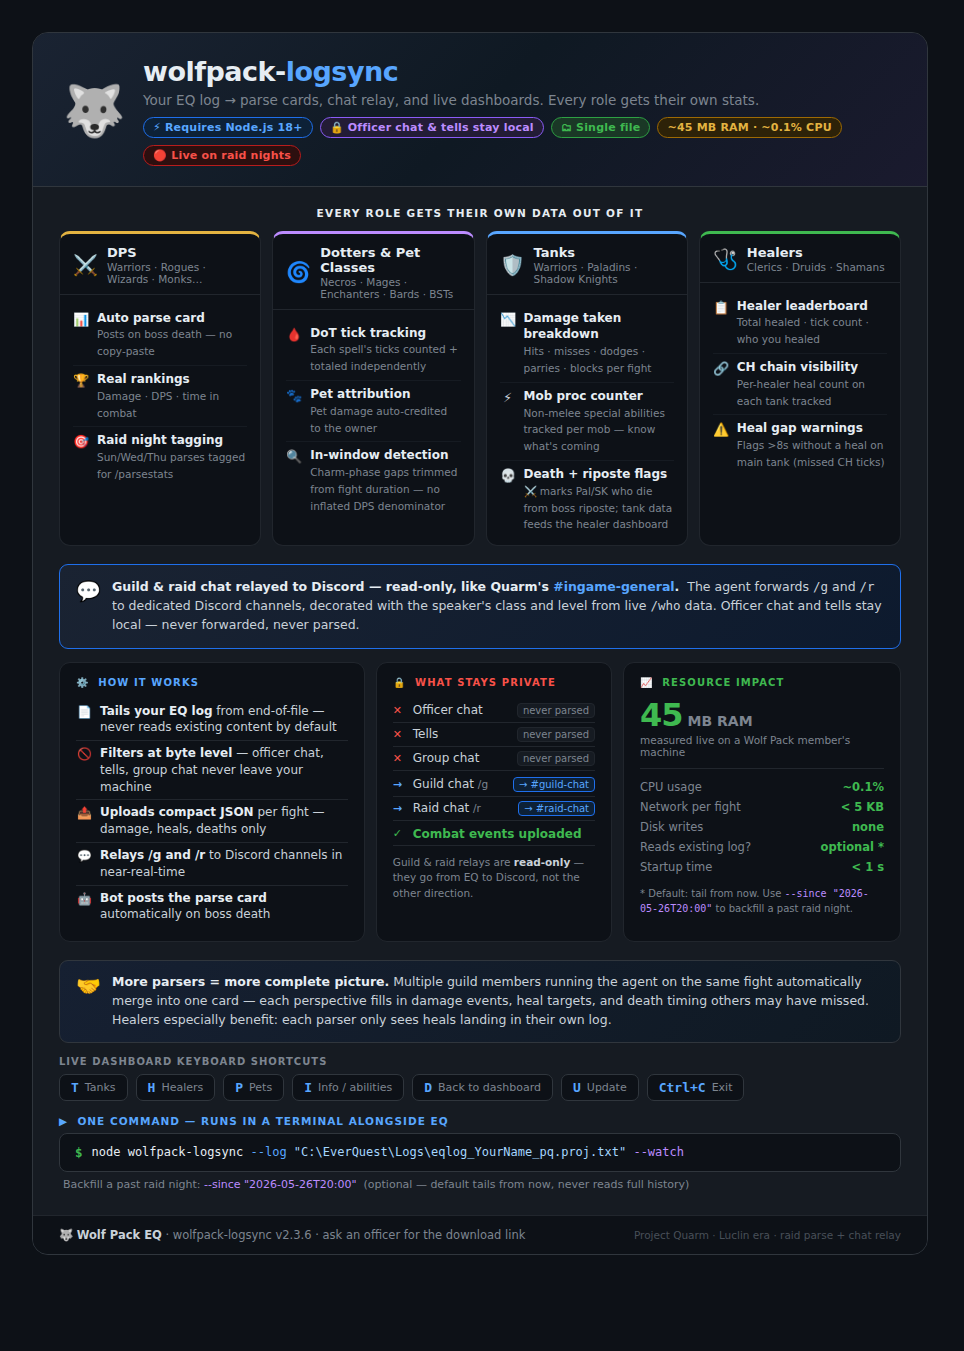
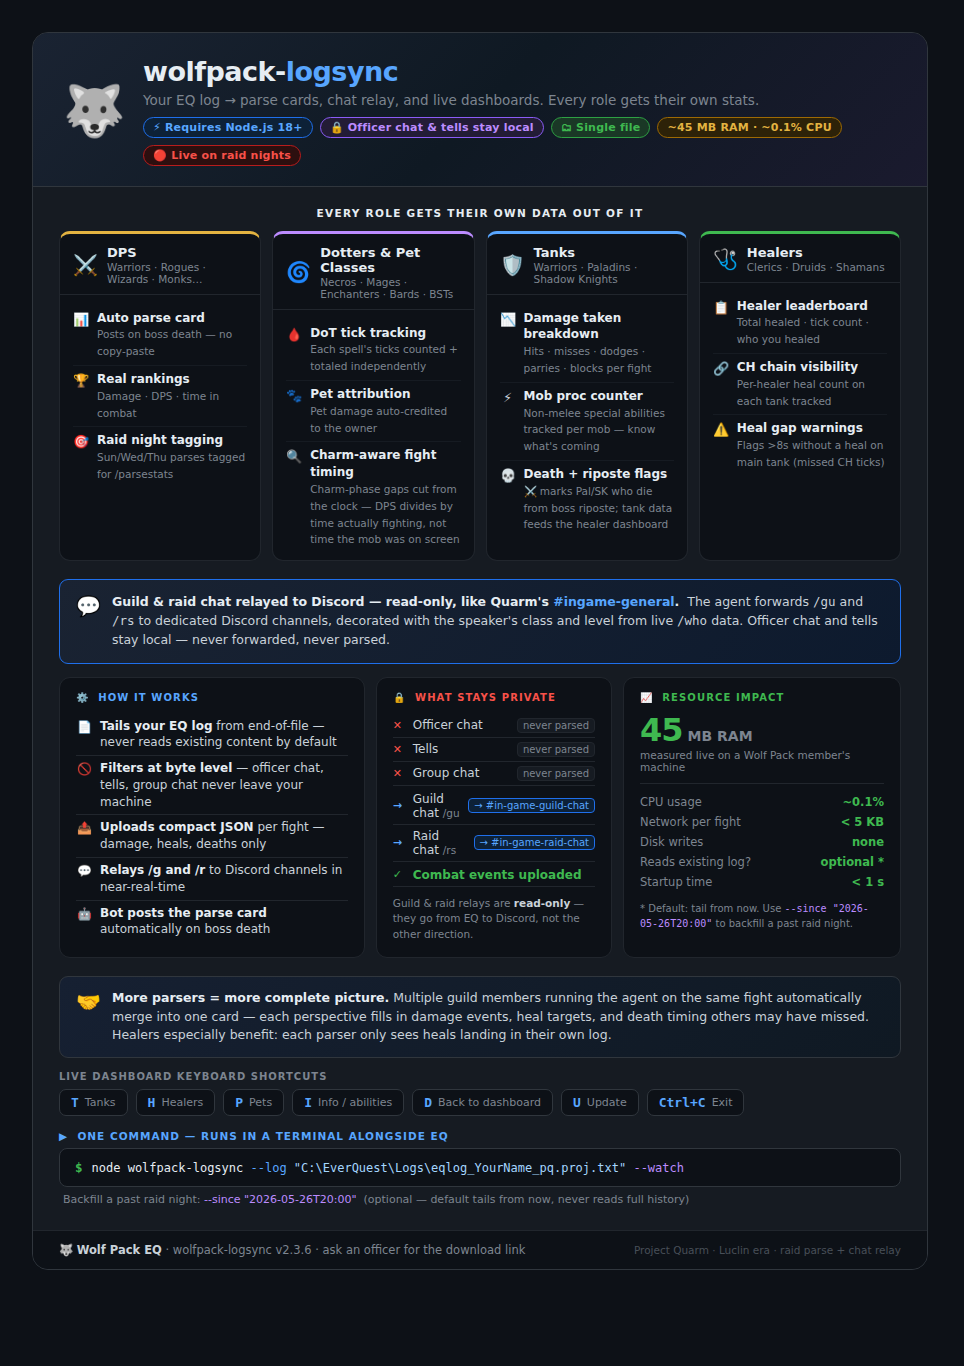
v2.2.18 — fix /gu /rs commands, channel names, promo card label
- Agent comments: /g → /gu, /r → /rs (Quarm slash commands)
- Promo card: 'In-window detection' → 'Charm-aware fight timing' with plain-English description
- Promo card: #guild-chat → #in-game-guild-chat, #raid-chat → #in-game-raid-chat
- Promo card: /g → /gu, /r → /rs in callout and privacy section

Log line format unchanged — EQ logs 'tells the guild'/'tells the raid'
regardless of which slash command was used, so regex patterns are correct.

https://claude.ai/code/session_01EcNNVB7PAZexa1Dz92afRd

diff --git a/scripts/promo-card.html b/scripts/promo-card.html
@@ -277,7 +277,7 @@
           </div>
           <div class="role-feature">
             <span class="rf-icon">🔍</span>
-            <div><strong>In-window detection</strong><span class="rf-sub">Charm-phase gaps trimmed from fight duration — no inflated DPS denominator</span></div>
+            <div><strong>Charm-aware fight timing</strong><span class="rf-sub">Charm-phase gaps cut from the clock — DPS divides by time actually fighting, not time the mob was on screen</span></div>
           </div>
         </div>
       </div>
@@ -339,7 +339,7 @@
       <span class="chat-icon">💬</span>
       <div class="chat-text">
         <strong>Guild &amp; raid chat relayed to Discord — read-only, like Quarm's <span class="ch-name">#ingame-general</span>.</strong>
-        &nbsp;The agent forwards <code>/g</code> and <code>/r</code> to dedicated Discord channels, decorated with the speaker's class and level
+        &nbsp;The agent forwards <code>/gu</code> and <code>/rs</code> to dedicated Discord channels, decorated with the speaker's class and level
         from live <code>/who</code> data. Officer chat and tells stay local — never forwarded, never parsed.
       </div>
     </div>
@@ -392,13 +392,13 @@
         </div>
         <div class="priv-item" style="padding-top:6px;">
           <span class="priv-fwd">→</span>
-          <span class="priv-label">Guild chat <span style="color:#7d8590;font-size:10.5px;">/g</span></span>
-          <span class="priv-tag blue">→ #guild-chat</span>
+          <span class="priv-label">Guild chat <span style="color:#7d8590;font-size:10.5px;">/gu</span></span>
+          <span class="priv-tag blue">→ #in-game-guild-chat</span>
         </div>
         <div class="priv-item">
           <span class="priv-fwd">→</span>
-          <span class="priv-label">Raid chat <span style="color:#7d8590;font-size:10.5px;">/r</span></span>
-          <span class="priv-tag blue">→ #raid-chat</span>
+          <span class="priv-label">Raid chat <span style="color:#7d8590;font-size:10.5px;">/rs</span></span>
+          <span class="priv-tag blue">→ #in-game-raid-chat</span>
         </div>
         <div class="priv-item" style="padding-top:6px;">
           <span class="priv-check">✓</span>

diff --git a/packages/wolfpack-logsync/index.js b/packages/wolfpack-logsync/index.js
@@ -192,7 +192,7 @@ const DEFAULT_DROP_PATTERNS = [
   /\btells the group,\s*['"]/i,
   /^\[.+\]\s+You say to your group,/i,
 
-  // Note: guild chat (/g, "tells the guild") and raid chat (/r, "tells the raid") are
+  // Note: guild chat (/gu, "tells the guild") and raid chat (/rs, "tells the raid") are
   // intentionally NOT filtered here. These channels are shared among the whole guild
   // and are not private. Future versions may parse them for loot callouts, CH triggers, etc.
 
@@ -1783,7 +1783,7 @@ function uploadEncounter(payload, { botUrl, token, dryRun }) {
 }
 
 // ── Guild / Raid chat relay ───────────────────────────────────────────────────
-// Guild (/g) and raid (/r) chat lines pass the shouldKeep filter (they are NOT
+// Guild (/gu) and raid (/rs) chat lines pass the shouldKeep filter (they are NOT
 // dropped) but produce no combat events. We capture them here, attach the /who
 // class+level decoration, and flush to the bot's /api/agent/chat endpoint every
 // 5 seconds so the bot can relay them to read-only Discord channels.

diff --git a/CLAUDE.md b/CLAUDE.md
@@ -1,5 +1,5 @@
 # Quarm Raid Timer Bot — Claude Code Handoff
-**Version:** 2.2.17  
+**Version:** 2.2.18  
 **Runtime:** Node.js 20, discord.js v14  
 **Deployment:** Railway (primary) or Docker  
 **Guild:** Wolf Pack EQ (Quarm) — `DISCORD_GUILD_ID=1168893924329402420`

diff --git a/README.md b/README.md
@@ -3,7 +3,7 @@
 A Discord bot for tracking instanced raid boss spawn timers on Project Quarm (EverQuest TLP server, Luclin era).
 Timer data sourced from [PQDI.cc](https://www.pqdi.cc/instances).
 
-**Version:** 2.2.17 · **Runtime:** Node.js 20, discord.js v14 · **Deployment:** Railway + Supabase
+**Version:** 2.2.18 · **Runtime:** Node.js 20, discord.js v14 · **Deployment:** Railway + Supabase
 
 ---
 